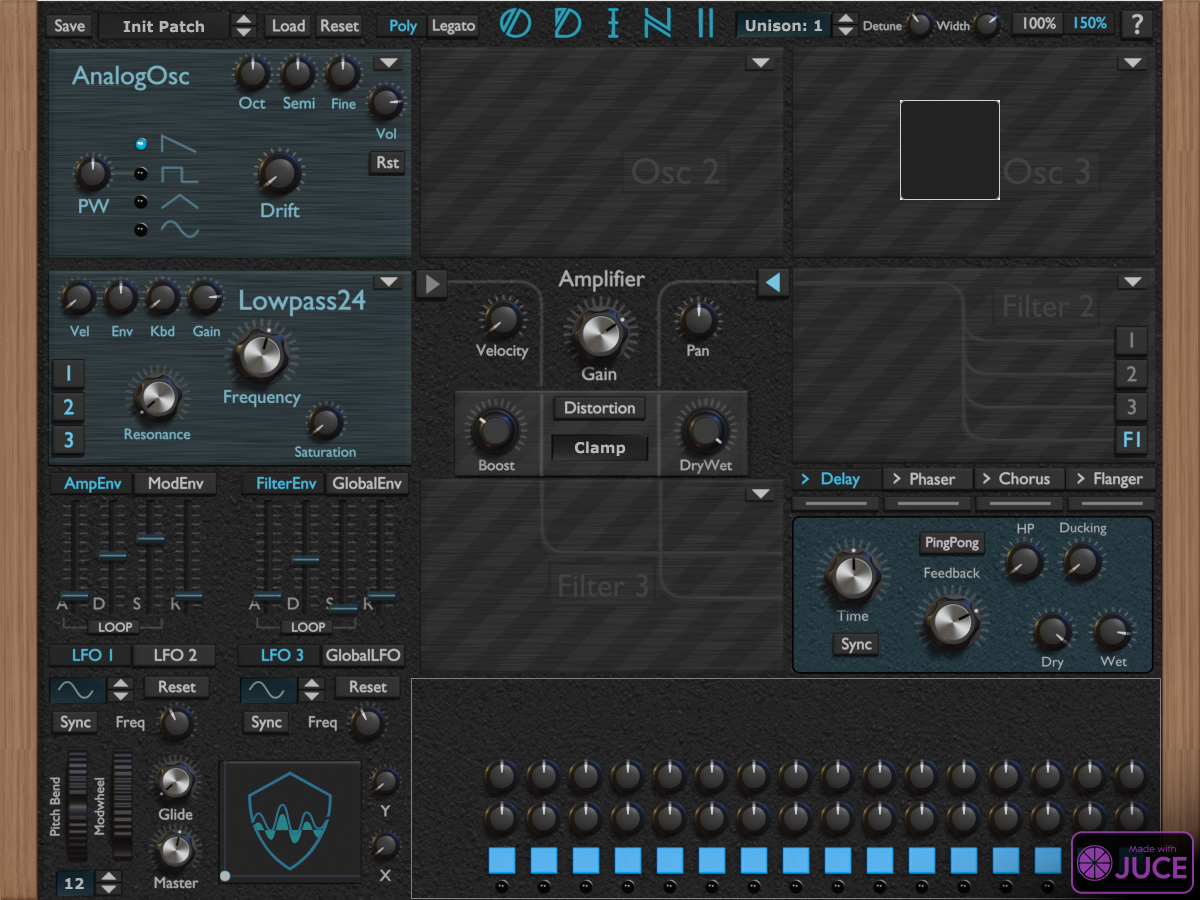
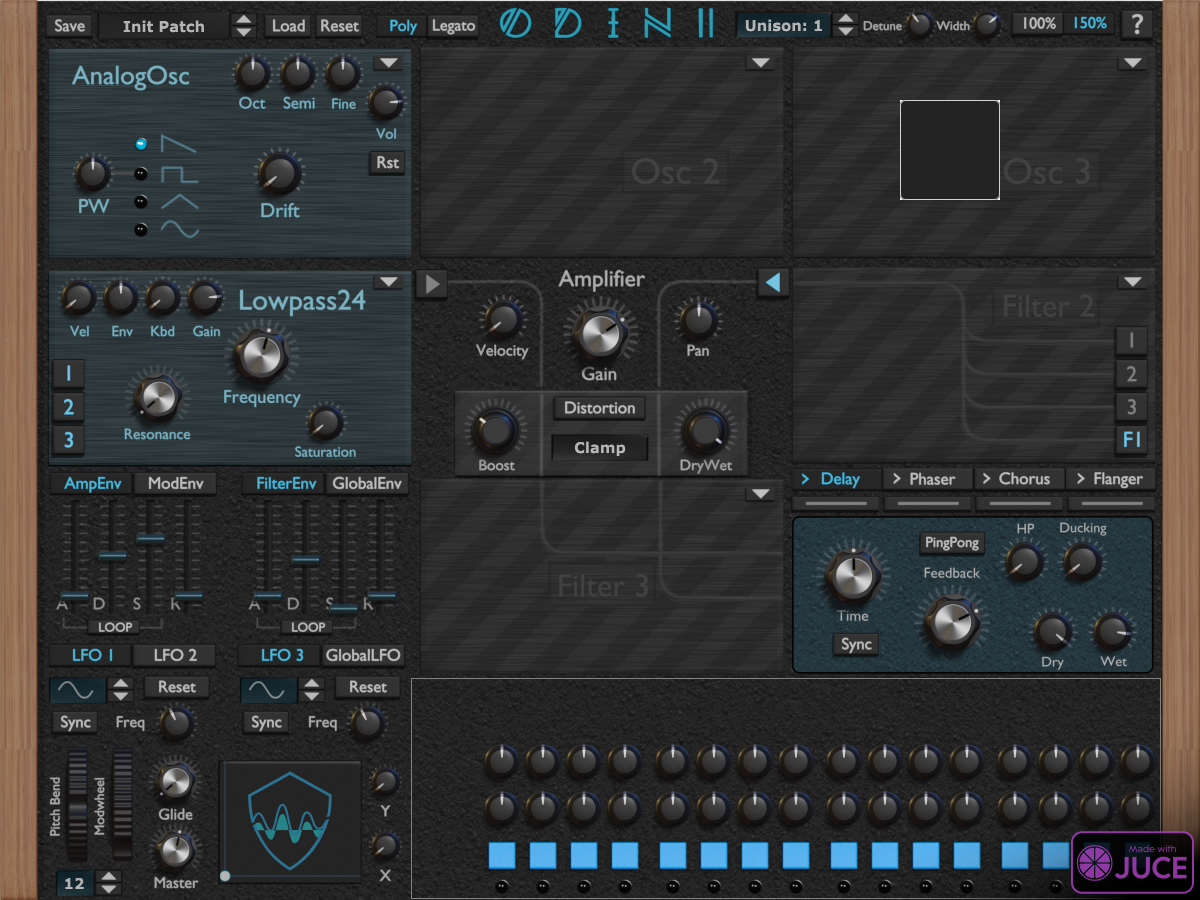
spacing in arp

Changed region(s): [[0.4008, 0.8089, 0.9558, 0.9956]]

diff --git a/Source/ArpComponent.cpp b/Source/ArpComponent.cpp
@@ -89,73 +89,73 @@ void ArpComponent::setGUIBig() {
 		                   STEP_COMPONENT_HEIGHT);
 		m_step_3.setGUIBig();
 
-		m_step_4.setBounds(STEP_COMPONENT_POS_X + 4 * STEP_COMPONENT_WIDTH,
+		m_step_4.setBounds(STEP_COMPONENT_POS_X + 4 * STEP_COMPONENT_WIDTH + STEP_COMPONENT_SPACING,
 		                   STEP_COMPONENT_POS_Y,
 		                   STEP_COMPONENT_WIDTH,
 		                   STEP_COMPONENT_HEIGHT);
 		m_step_4.setGUIBig();
 
-		m_step_5.setBounds(STEP_COMPONENT_POS_X + 5 * STEP_COMPONENT_WIDTH,
+		m_step_5.setBounds(STEP_COMPONENT_POS_X + 5 * STEP_COMPONENT_WIDTH + STEP_COMPONENT_SPACING,
 		                   STEP_COMPONENT_POS_Y,
 		                   STEP_COMPONENT_WIDTH,
 		                   STEP_COMPONENT_HEIGHT);
 		m_step_5.setGUIBig();
 
-		m_step_6.setBounds(STEP_COMPONENT_POS_X + 6 * STEP_COMPONENT_WIDTH,
+		m_step_6.setBounds(STEP_COMPONENT_POS_X + 6 * STEP_COMPONENT_WIDTH + STEP_COMPONENT_SPACING,
 		                   STEP_COMPONENT_POS_Y,
 		                   STEP_COMPONENT_WIDTH,
 		                   STEP_COMPONENT_HEIGHT);
 		m_step_6.setGUIBig();
 
-		m_step_7.setBounds(STEP_COMPONENT_POS_X + 7 * STEP_COMPONENT_WIDTH,
+		m_step_7.setBounds(STEP_COMPONENT_POS_X + 7 * STEP_COMPONENT_WIDTH + STEP_COMPONENT_SPACING,
 		                   STEP_COMPONENT_POS_Y,
 		                   STEP_COMPONENT_WIDTH,
 		                   STEP_COMPONENT_HEIGHT);
 		m_step_7.setGUIBig();
 
-		m_step_8.setBounds(STEP_COMPONENT_POS_X + 8 * STEP_COMPONENT_WIDTH,
+		m_step_8.setBounds(STEP_COMPONENT_POS_X + 8 * STEP_COMPONENT_WIDTH + STEP_COMPONENT_SPACING*2,
 		                   STEP_COMPONENT_POS_Y,
 		                   STEP_COMPONENT_WIDTH,
 		                   STEP_COMPONENT_HEIGHT);
 		m_step_8.setGUIBig();
 
-		m_step_9.setBounds(STEP_COMPONENT_POS_X + 9 * STEP_COMPONENT_WIDTH,
+		m_step_9.setBounds(STEP_COMPONENT_POS_X + 9 * STEP_COMPONENT_WIDTH + STEP_COMPONENT_SPACING*2,
 		                   STEP_COMPONENT_POS_Y,
 		                   STEP_COMPONENT_WIDTH,
 		                   STEP_COMPONENT_HEIGHT);
 		m_step_9.setGUIBig();
 
-		m_step_10.setBounds(STEP_COMPONENT_POS_X + 10 * STEP_COMPONENT_WIDTH,
+		m_step_10.setBounds(STEP_COMPONENT_POS_X + 10 * STEP_COMPONENT_WIDTH + STEP_COMPONENT_SPACING*2,
 		                    STEP_COMPONENT_POS_Y,
 		                    STEP_COMPONENT_WIDTH,
 		                    STEP_COMPONENT_HEIGHT);
 		m_step_10.setGUIBig();
 
-		m_step_11.setBounds(STEP_COMPONENT_POS_X + 11 * STEP_COMPONENT_WIDTH,
+		m_step_11.setBounds(STEP_COMPONENT_POS_X + 11 * STEP_COMPONENT_WIDTH + STEP_COMPONENT_SPACING*2,
 		                    STEP_COMPONENT_POS_Y,
 		                    STEP_COMPONENT_WIDTH,
 		                    STEP_COMPONENT_HEIGHT);
 		m_step_11.setGUIBig();
 
-		m_step_12.setBounds(STEP_COMPONENT_POS_X + 12 * STEP_COMPONENT_WIDTH,
+		m_step_12.setBounds(STEP_COMPONENT_POS_X + 12 * STEP_COMPONENT_WIDTH + STEP_COMPONENT_SPACING*3,
 		                    STEP_COMPONENT_POS_Y,
 		                    STEP_COMPONENT_WIDTH,
 		                    STEP_COMPONENT_HEIGHT);
 		m_step_12.setGUIBig();
 
-		m_step_13.setBounds(STEP_COMPONENT_POS_X + 13 * STEP_COMPONENT_WIDTH,
+		m_step_13.setBounds(STEP_COMPONENT_POS_X + 13 * STEP_COMPONENT_WIDTH + STEP_COMPONENT_SPACING*3,
 		                    STEP_COMPONENT_POS_Y,
 		                    STEP_COMPONENT_WIDTH,
 		                    STEP_COMPONENT_HEIGHT);
 		m_step_13.setGUIBig();
 
-		m_step_14.setBounds(STEP_COMPONENT_POS_X + 14 * STEP_COMPONENT_WIDTH,
+		m_step_14.setBounds(STEP_COMPONENT_POS_X + 14 * STEP_COMPONENT_WIDTH + STEP_COMPONENT_SPACING*3,
 		                    STEP_COMPONENT_POS_Y,
 		                    STEP_COMPONENT_WIDTH,
 		                    STEP_COMPONENT_HEIGHT);
 		m_step_14.setGUIBig();
 
-		m_step_15.setBounds(STEP_COMPONENT_POS_X + 15 * STEP_COMPONENT_WIDTH,
+		m_step_15.setBounds(STEP_COMPONENT_POS_X + 15 * STEP_COMPONENT_WIDTH + STEP_COMPONENT_SPACING*3,
 		                    STEP_COMPONENT_POS_Y,
 		                    STEP_COMPONENT_WIDTH,
 		                    STEP_COMPONENT_HEIGHT);

diff --git a/Source/ArpComponent.h b/Source/ArpComponent.h
@@ -4,10 +4,11 @@
 #include "StepComponent.h"
 #include "PluginProcessor.h"
 
-#define STEP_COMPONENT_WIDTH 42
-#define STEP_COMPONENT_HEIGHT 141
+#define STEP_COMPONENT_WIDTH 41
+#define STEP_COMPONENT_SPACING 7
+#define STEP_COMPONENT_HEIGHT 156
 #define STEP_COMPONENT_POS_X 69
-#define STEP_COMPONENT_POS_Y 78
+#define STEP_COMPONENT_POS_Y 63
 
 #define NUMBER_OF_STEPS 16
 
@@ -33,6 +34,21 @@ private:
 
     OdinAudioProcessor &m_processor;
 	AudioProcessorValueTreeState &m_value_tree;
+
+    //Knobs
+    //Gate Length
+    //Octave
+
+
+    //Buttons
+    //OneShot
+    //On / Off
+
+    //SyntimSelectorz & Dropdowns
+    //Time
+    //Direction
+    //N° of steps
+
 
     StepComponent m_step_0;
     StepComponent m_step_1;

diff --git a/Source/StepComponent.h b/Source/StepComponent.h
@@ -8,11 +8,11 @@
 
 #define KNOB_POS_X 1
 #define MOD_POS_Y 1
-#define TRANSPOSE_POS_Y 43
+#define TRANSPOSE_POS_Y 48
 #define STEP_ON_X 3
-#define STEP_ON_Y 89
+#define STEP_ON_Y 99
 #define STEP_LED_POS_X 13
-#define STEP_LED_POS_Y 121
+#define STEP_LED_POS_Y 136
 
 class StepComponent : public Component {
 public:
